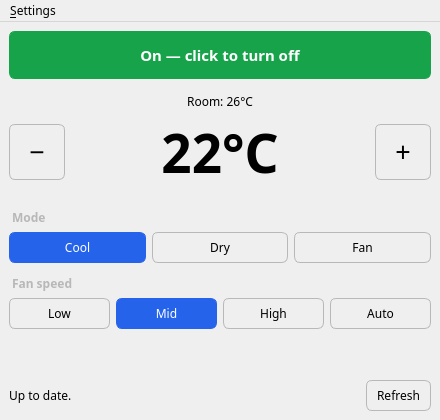
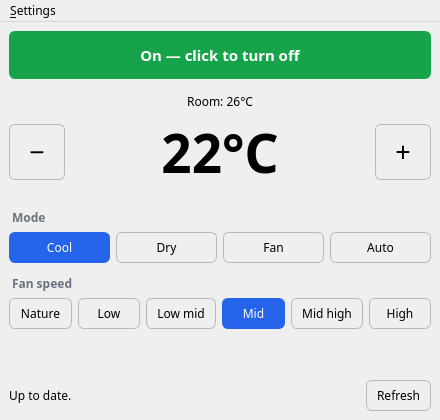
Fix temperature control on units with write-only setpoints
On the S3NQ09AM31A, Cool and Auto take the setpoint through write-only
coolTargetTemperature/autoTargetTemperature and only report it back via
the read-only targetTemperature. The app read the target from the
property it writes to, got nothing, and disabled the -/+ buttons.

Read the target from the first readable candidate and write through the
first writable one. Also disable -/+ in modes with no setpoint (Dry,
Fan), and switch the demo unit to this model's real profile so the tests
cover it.

diff --git a/lg_ac/demo.py b/lg_ac/demo.py
@@ -31,29 +31,31 @@ def _enum(values, mode=("r", "w")):
     return {"type": "enum", "mode": list(mode), "value": {m: list(values) for m in mode}}
 
 
-def _range(lo, hi, step=1):
-    rng = {"min": lo, "max": hi, "step": step}
-    return {"type": "range", "mode": ["r", "w"], "value": {"r": rng, "w": rng}}
+def _write_only_range(lo, hi, step):
+    return {"type": "range", "mode": ["w"], "value": {"w": {"min": lo, "max": hi, "step": step}}}
+
+
+def _temperatures(unit, lo, hi, step):
+    # Mirrors the S3NQ09AM31A: the setpoint is written per mode (cool/auto) but only read back
+    # through the generic, read-only targetTemperature.
+    return {
+        "unit": unit,
+        "currentTemperature": {"type": "number", "mode": ["r"]},
+        "targetTemperature": {"type": "number", "mode": ["r"]},
+        "minTargetTemperature": {"type": "number", "mode": ["r"]},
+        "maxTargetTemperature": {"type": "number", "mode": ["r"]},
+        "coolTargetTemperature": _write_only_range(lo, hi, step),
+        "autoTargetTemperature": _write_only_range(lo, hi, step),
+    }
 
 
 PROFILE = {
     "notification": {"push": []},
     "property": {
-        "airConJobMode": {"currentJobMode": _enum(["COOL", "AIR_DRY", "FAN"])},
+        "airConJobMode": {"currentJobMode": _enum(["COOL", "AIR_DRY", "FAN", "AUTO"])},
         "operation": {"airConOperationMode": _enum(["POWER_ON", "POWER_OFF"])},
-        "temperatureInUnits": [
-            {
-                "unit": "C",
-                "currentTemperature": {"type": "number", "mode": ["r"]},
-                "targetTemperature": _range(18, 30),
-            },
-            {
-                "unit": "F",
-                "currentTemperature": {"type": "number", "mode": ["r"]},
-                "targetTemperature": _range(64, 86),
-            },
-        ],
-        "airFlow": {"windStrength": _enum(["LOW", "MID", "HIGH", "AUTO"])},
+        "temperatureInUnits": [_temperatures("C", 18, 30, 0.5), _temperatures("F", 64, 86, 1)],
+        "airFlow": {"windStrength": _enum(["NATURE", "LOW", "LOW_MID", "MID", "MID_HIGH", "HIGH"])},
     },
 }
 
@@ -61,8 +63,8 @@ STATUS = {
     "airConJobMode": {"currentJobMode": "COOL"},
     "operation": {"airConOperationMode": "POWER_ON"},
     "temperatureInUnits": [
-        {"currentTemperature": 26, "targetTemperature": 22, "unit": "C"},
-        {"currentTemperature": 79, "targetTemperature": 72, "unit": "F"},
+        {"currentTemperature": 26, "targetTemperature": 22, "minTargetTemperature": 18, "maxTargetTemperature": 30, "unit": "C"},
+        {"currentTemperature": 79, "targetTemperature": 72, "minTargetTemperature": 64, "maxTargetTemperature": 86, "unit": "F"},
     ],
     "airFlow": {"windStrength": "MID"},
 }
@@ -91,7 +93,9 @@ class DemoApi:
             if resource == "temperatureInUnits":
                 for entry in self.status[resource]:
                     if entry["unit"] == values.get("unit"):
-                        entry.update({k: v for k, v in values.items() if k != "unit"})
+                        for key, value in values.items():
+                            if key.endswith("argetTemperature"):  # cool/auto setpoints read back as the target
+                                entry["targetTemperature"] = value
             else:
                 self.status.setdefault(resource, {}).update(values)
         return {}

diff --git a/lg_ac/controller.py b/lg_ac/controller.py
@@ -33,6 +33,7 @@ class AcState:
     temp_min: float | None = None
     temp_max: float | None = None
     temp_step: float = 1
+    can_set_temp: bool = False
     unit: str = "C"
     fan_speed: str | None = None
     fan_speeds: list[str] = field(default_factory=list)
@@ -81,18 +82,19 @@ class AcController:
     def state(self) -> AcState:
         device = self._require_device()
         unit = self._unit
-        target_prop = self._target_temperature_prop()
-        limits = self._writable_values(target_prop) if target_prop else None
+        write_prop = self._target_temperature_prop()
+        limits = self._writable_values(write_prop) if write_prop else None
         power = device.get_status(P.AIR_CON_OPERATION_MODE)
         return AcState(
             power=None if power is None else power == POWER_ON,
             mode=device.get_status(P.CURRENT_JOB_MODE),
             modes=list(self._writable_values(P.CURRENT_JOB_MODE) or []),
             current_temp=device.get_status(getattr(P, f"CURRENT_TEMPERATURE_{unit}")),
-            target_temp=device.get_status(target_prop) if target_prop else None,
+            target_temp=self._read_target_temperature(),
             temp_min=limits.get("min") if isinstance(limits, dict) else None,
             temp_max=limits.get("max") if isinstance(limits, dict) else None,
             temp_step=limits.get("step", 1) if isinstance(limits, dict) else 1,
+            can_set_temp=write_prop is not None,
             unit=unit,
             fan_speed=device.get_status(P.WIND_STRENGTH),
             fan_speeds=list(self._writable_values(P.WIND_STRENGTH) or []),
@@ -126,14 +128,26 @@ class AcController:
             raise RuntimeError("No air conditioner connected yet.")
         return self._device
 
-    def _target_temperature_prop(self) -> str | None:
-        """Pick the writable target-temperature property for the current mode and unit."""
-        device = self._require_device()
+    def _target_temperature_candidates(self) -> list[str]:
+        """Target-temperature properties for the current mode and unit, most specific first."""
         candidates = [getattr(P, f"TARGET_TEMPERATURE_{self._unit}")]
-        prefix = _MODE_TARGET_PREFIX.get(device.get_status(P.CURRENT_JOB_MODE) or "")
+        prefix = _MODE_TARGET_PREFIX.get(self._require_device().get_status(P.CURRENT_JOB_MODE) or "")
         if prefix:
             candidates.insert(0, getattr(P, f"{prefix}_TARGET_TEMPERATURE_{self._unit}"))
-        return next((p for p in candidates if self._writable(p)), None)
+        return candidates
+
+    def _target_temperature_prop(self) -> str | None:
+        """The property to write a new target temperature to."""
+        return next((p for p in self._target_temperature_candidates() if self._writable(p)), None)
+
+    def _read_target_temperature(self) -> float | None:
+        # Some units (e.g. S3NQ09AM31A) take the setpoint through a write-only property such as
+        # coolTargetTemperature and only report it back through the generic targetTemperature.
+        device = self._require_device()
+        for prop in self._target_temperature_candidates():
+            if self._readable(prop) and (value := device.get_status(prop)) is not None:
+                return value
+        return None
 
     def _readable(self, prop: str) -> bool:
         try:

diff --git a/tests/test_controller.py b/tests/test_controller.py
@@ -19,11 +19,12 @@ class ControllerTest(unittest.IsolatedAsyncioTestCase):
         s = self.state
         self.assertTrue(s.power)
         self.assertEqual(s.mode, "COOL")
-        self.assertEqual(s.modes, ["COOL", "AIR_DRY", "FAN"])
+        self.assertEqual(s.modes, ["COOL", "AIR_DRY", "FAN", "AUTO"])
         self.assertEqual((s.current_temp, s.target_temp, s.unit), (26, 22, "C"))
-        self.assertEqual((s.temp_min, s.temp_max, s.temp_step), (18, 30, 1))
+        self.assertEqual((s.temp_min, s.temp_max, s.temp_step), (18, 30, 0.5))
+        self.assertTrue(s.can_set_temp)
         self.assertEqual(s.fan_speed, "MID")
-        self.assertEqual(s.fan_speeds, ["LOW", "MID", "HIGH", "AUTO"])
+        self.assertEqual(s.fan_speeds, ["NATURE", "LOW", "LOW_MID", "MID", "MID_HIGH", "HIGH"])
 
     async def test_power_off(self):
         await self.controller.set_power(False)
@@ -37,9 +38,26 @@ class ControllerTest(unittest.IsolatedAsyncioTestCase):
             [{"airConJobMode": {"currentJobMode": "AIR_DRY"}}, {"airFlow": {"windStrength": "HIGH"}}],
         )
 
-    async def test_set_target_temperature(self):
-        await self.controller.set_target_temperature(24)
-        self.assertEqual(self.api.commands, [{"temperatureInUnits": {"targetTemperature": 24, "unit": "C"}}])
+    async def test_set_target_temperature_in_cool_mode(self):
+        state = await self.controller.set_target_temperature(24.5)
+        self.assertEqual(self.api.commands, [{"temperatureInUnits": {"coolTargetTemperature": 24.5, "unit": "C"}}])
+        self.assertEqual(state.target_temp, 24.5)
+
+    async def test_set_target_temperature_in_auto_mode(self):
+        await self.controller.set_mode("AUTO")
+        await self.controller.set_target_temperature(23)
+        self.assertEqual(self.api.commands[-1], {"temperatureInUnits": {"autoTargetTemperature": 23, "unit": "C"}})
+
+    async def test_no_setpoint_in_fan_mode(self):
+        state = await self.controller.set_mode("FAN")
+        self.assertFalse(state.can_set_temp)
+        self.assertEqual(state.target_temp, 22)  # still shown, just not adjustable
+        with self.assertRaises(ValueError):
+            await self.controller.set_target_temperature(24)
+
+    async def test_rejects_off_step_temperature(self):
+        with self.assertRaises(ValueError):
+            await self.controller.set_target_temperature(24.25)
 
     async def test_rejects_out_of_range_temperature(self):
         with self.assertRaises(ValueError):

diff --git a/lg_ac/app.py b/lg_ac/app.py
@@ -403,7 +403,7 @@ class MainWindow(QMainWindow):
         self.current_label.setText(f"Room: {state.current_temp:g}{unit}" if state.current_temp is not None else "Room: —")
         if self.pending_target is None:
             self.target_label.setText(f"{state.target_temp:g}{unit}" if state.target_temp is not None else "—")
-        has_target = state.target_temp is not None and bool(state.power)
+        has_target = state.can_set_temp and state.target_temp is not None and bool(state.power)
         self.down_button.setEnabled(has_target)
         self.up_button.setEnabled(has_target)
 
@@ -448,6 +448,9 @@ class MainWindow(QMainWindow):
         self._check_value(self.fan_group, state.fan_speed)
         if state.target_temp is not None:
             self.target_label.setText(f"{state.target_temp:g}°{state.unit}")
+        has_target = state.can_set_temp and state.target_temp is not None and bool(state.power)
+        self.down_button.setEnabled(has_target)
+        self.up_button.setEnabled(has_target)
 
     def status(self, text: str) -> None:
         self.status_label.setText(text)
